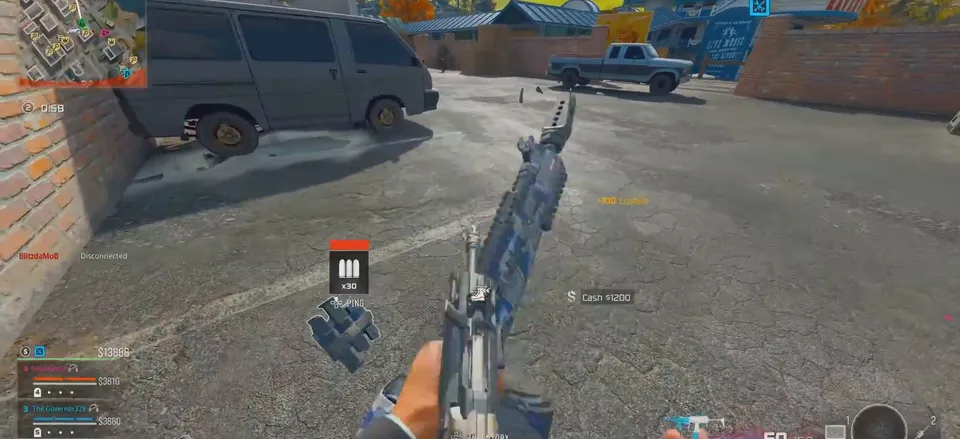
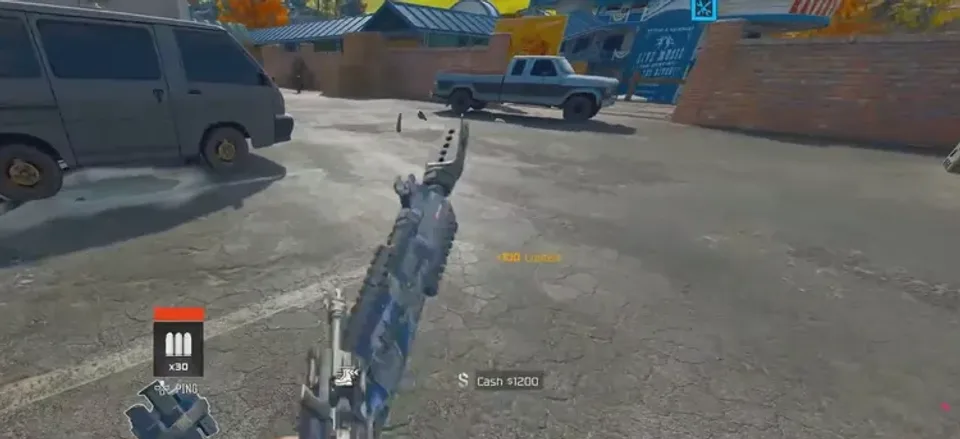
Add Vondead; crop player names out of the gameplay stills (#14)
Claude-Session: https://claude.ai/code/session_017vDDw5GYp5ydRnFHS4YqGZ

diff --git a/src/lib/codm.ts b/src/lib/codm.ts
@@ -468,6 +468,16 @@ export const LOOKS: Look[] = [
     image: "/looks/al-mazrah.webp",
   },
   {
+    // MWII Warzone Zombie Royale (The Haunting) on Vondel at night. Derived from
+    // gameplay footage relative to the pooled daytime footage of all the games
+    // sampled. Videos disagree on cast (red vs blue) and agree on darker mids. (3 videos.)
+    name: "Vondead",
+    note: "MWII Warzone Zombie Royale: dark mids, reddish shadows, cool muted highlights",
+    mode: "Advanced",
+    code: "0_1_30_300_1000_1500_0_0_0_1000_994_60_-20_1040_614_30_-120_1060_522_60_0_880",
+    image: "/looks/vondead.webp",
+  },
+  {
     // Warzone Pacific on Caldera. Derived from gameplay footage relative to the pooled daytime footage of all the games sampled, so only the difference from typical footage is kept. (2 videos.)
     name: "Caldera",
     note: "Vanguard Warzone Pacific: olive shadows, warm mids",

diff --git a/README.md b/README.md
@@ -4,8 +4,8 @@ A fan-made colour filter share-code generator for Call of Duty: Mobile.
 
 Live: https://codm.kuletxcore.workers.dev
 
-- **Pick a look**: ready-made filters (Hajin, Apex, 2035, Avalon, Haven's Hollow, Haven's Hollow (Night), Al Mazrah, Caldera, Verdansk, Cold War, Default) with one-tap copy and a Customize button that opens the look in the generator. Looks without a reference image show the preview scene with the look applied.
-  - The footage-based looks (2035, Avalon, Haven's Hollow, Al Mazrah, Caldera) are measured from gameplay videos and expressed relative to the pooled daytime footage of all the games sampled, so only what sets a game apart is kept. Expect subtle results; test in game.
+- **Pick a look**: ready-made filters (Hajin, Apex, 2035, Avalon, Haven's Hollow, Haven's Hollow (Night), Al Mazrah, Vondead, Caldera, Verdansk, Cold War, Default) with one-tap copy and a Customize button that opens the look in the generator. Looks without a reference image show the preview scene with the look applied.
+  - The footage-based looks (2035, Avalon, Haven's Hollow, Al Mazrah, Vondead, Caldera) are measured from gameplay videos and expressed relative to the pooled daytime footage of all the games sampled, so only what sets a game apart is kept. Expect subtle results; test in game.
 - **Generator**: set hue, tint, saturation and brightness for shadows, midtones and highlights, see a live preview on a sample scene or your own screenshot, and copy the share code. The URL hash holds the current code, so links are shareable.
 - **Screenshot → Code**: drop in a reference screenshot of the look you want (and, optionally, a CODM screenshot of the same kind of scene on the default filter). The page measures each tonal range and suggests a starting code. Everything runs in the browser; nothing is uploaded.
 
